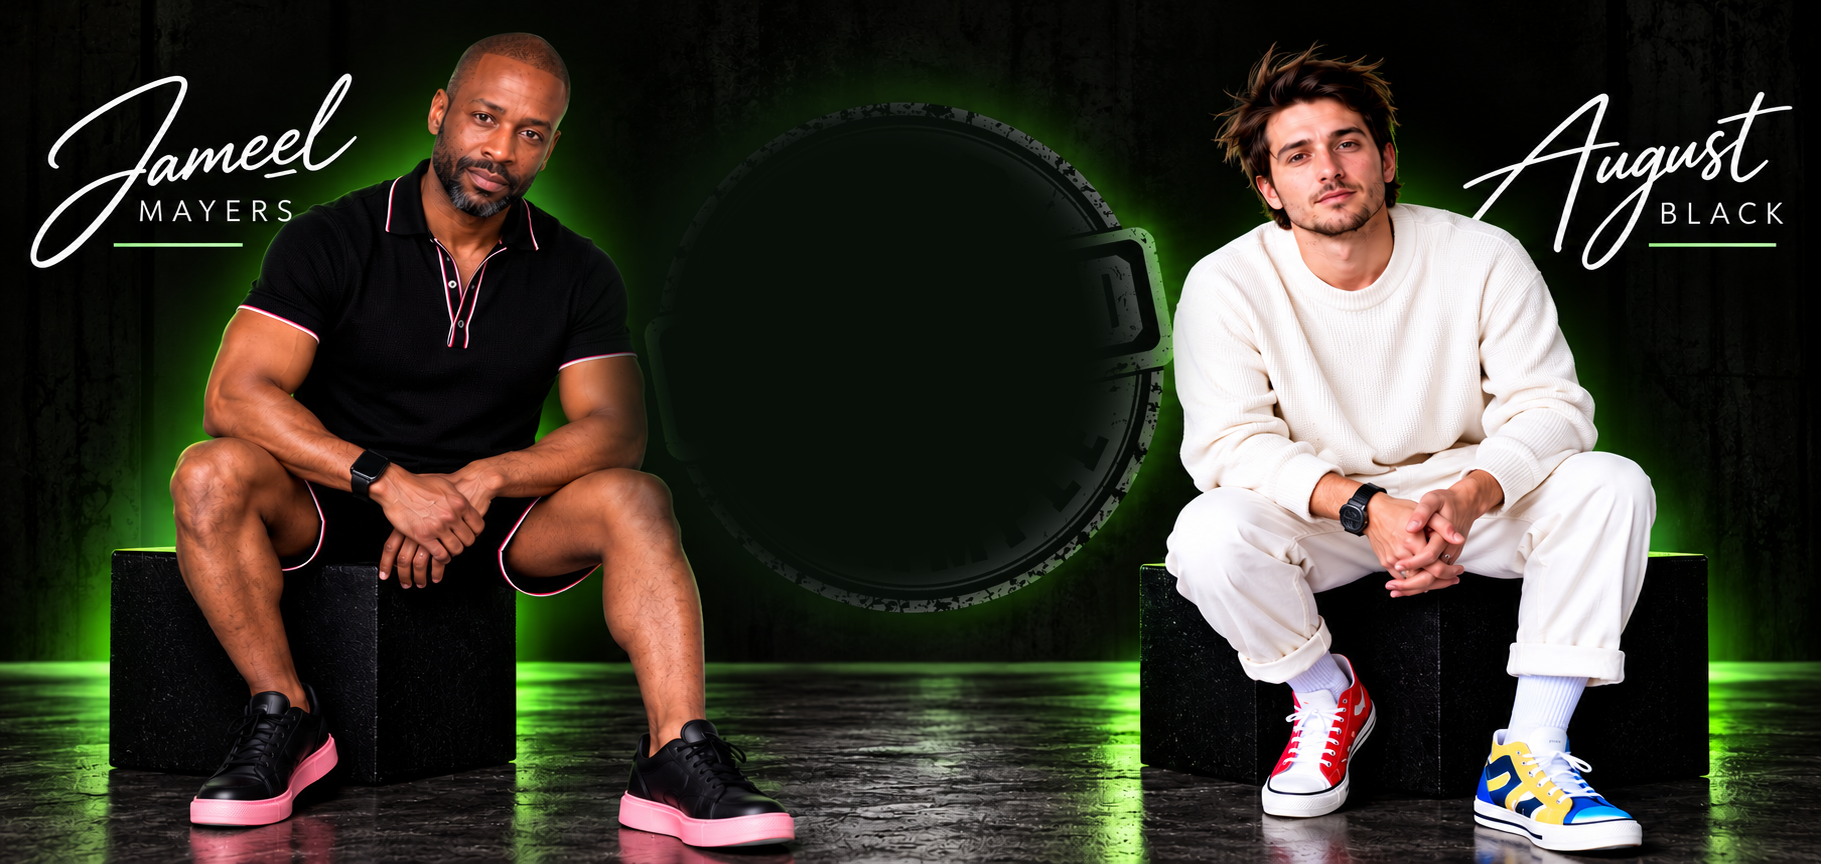
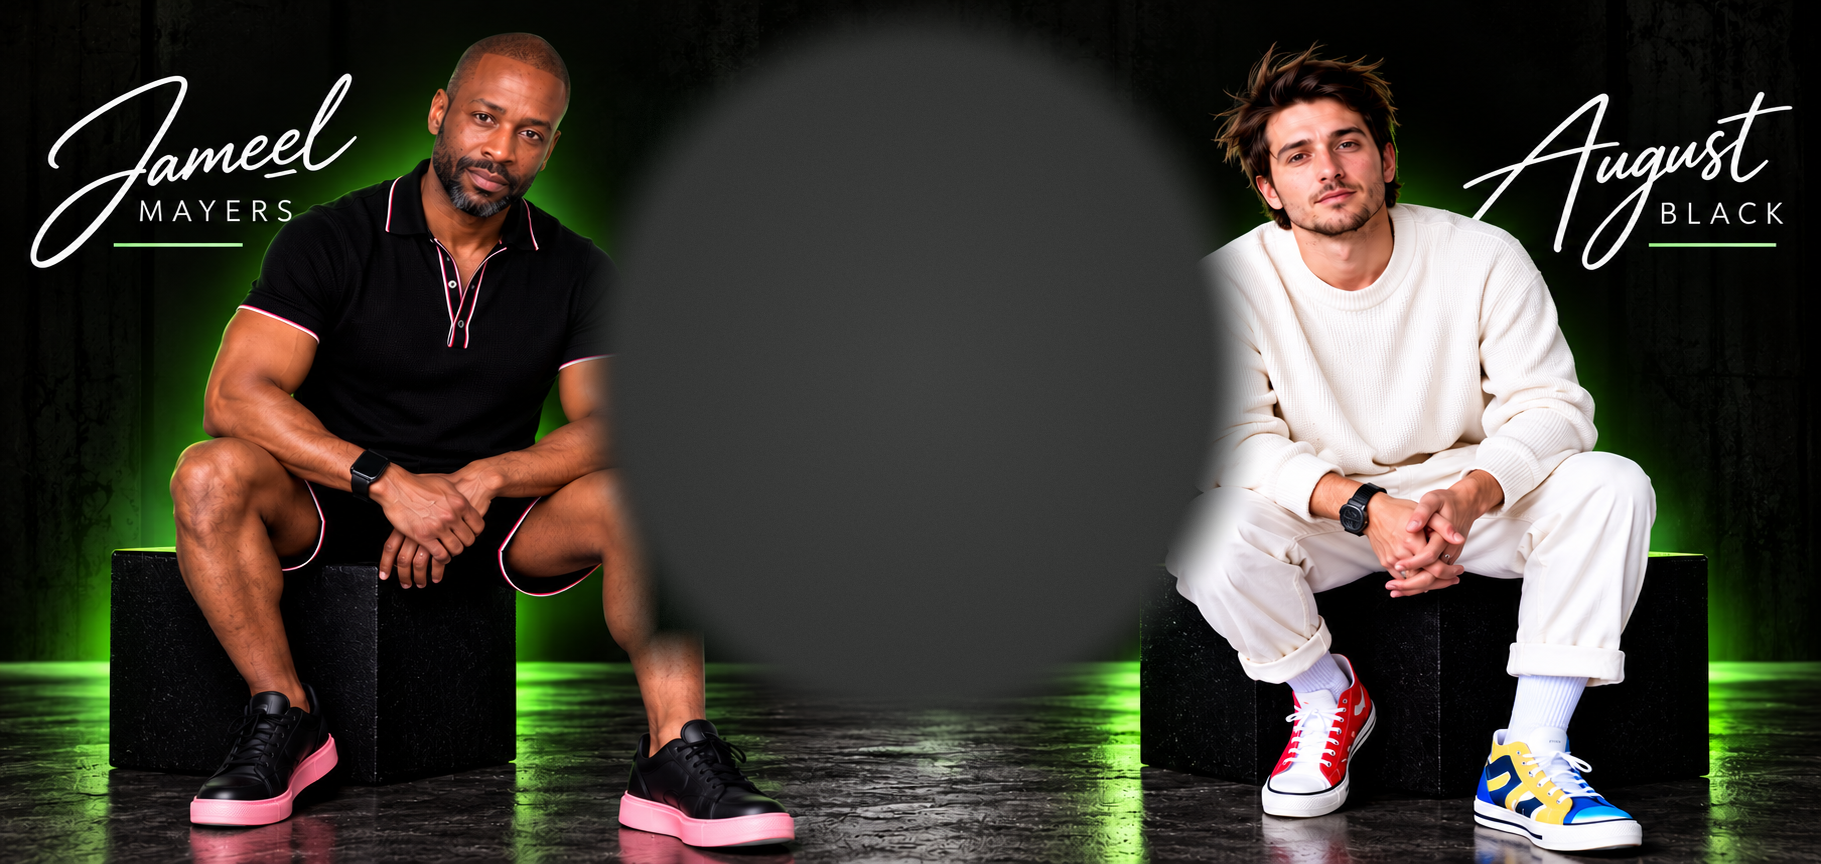
Add files via upload

Changed region(s): [[0.3075, 0.0312, 0.7073, 0.8438]]

diff --git a/index.html b/index.html
@@ -1,6 +1,6 @@
 <!doctype html><html lang="en"><head><meta charset="utf-8"><meta name="viewport" content="width=device-width,initial-scale=1"><meta name="theme-color" content="#080b09"><meta name="description" content="Certified Bad Example — Jameel Mayers and August Black react to real stories and questionable decisions."><title>Certified Bad Example | Podcast</title><link rel="stylesheet" href="styles.css"></head><body>
 <header class="site-header"><a href="index.html#home" class="brand" aria-label="Certified Bad Example home"><img src="assets/logo.png" alt="Certified Bad Example logo"></a><button class="menu-toggle" aria-label="Toggle navigation" aria-controls="nav" aria-expanded="false">☰</button><nav id="nav" aria-label="Main navigation"><a href="index.html#home">Home</a><a href="index.html#latest">Latest Mess</a><div class="nav-group"><button class="nav-drop" type="button" aria-expanded="false" aria-haspopup="true">Episodes <span aria-hidden="true">⌄</span></button><div class="nav-sub" id="season-nav"><a href="index.html#stories">Browse episodes</a><a href="index.html#stories" data-season-nav="1">Season One</a></div></div><div class="nav-group"><button class="nav-drop" type="button" aria-expanded="false" aria-haspopup="true">Hosts <span aria-hidden="true">⌄</span></button><div class="nav-sub"><a class="host-name" href="jameel.html"><span class="first-name">Jameel</span> <span class="last-name">Mayers</span></a><a class="host-name" href="august.html"><span class="first-name">August</span> <span class="last-name">Black</span></a></div></div><a href="support.html">Support</a></nav></header>
-<main id="home"><section class="hero reveal"><img class="hero-people" src="assets/hero-background.png" alt="Jameel Mayers and August Black"><img class="hero-spin-logo" src="assets/logo.png" alt="Certified Bad Example logo"><div class="hero-floor"></div></section>
+<main id="home"><section class="hero reveal"><img class="hero-people" src="assets/hero-background.png?v=12" alt="Jameel Mayers and August Black"><img class="hero-spin-logo" src="assets/logo.png" alt="Certified Bad Example logo"><div class="hero-floor"></div></section>
 <section class="home-intro reveal"><h2>BAD DECISIONS. BIG OPINIONS. <em>ZERO FILTER.</em></h2><p>The internet is full of people making questionable choices, and we’re here to talk about them. Join Jameel Mayers and August Black as they unpack outrageous viral stories, spectacular lapses in judgment, and the occasional example of humanity getting it right. It’s unscripted, unapologetic, and packed with laughs, perspective, and just enough common sense to make you wonder where everyone else’s went.</p><p><strong>Because sometimes the best lessons come from the worst examples.</strong></p></section><section class="social-band reveal"><p>FIND YOUR FAVORITE WAY TO FOLLOW THE MESS</p><div class="socials"><a data-link="youtube" aria-label="YouTube" target="_blank" rel="noopener"><svg class="brand-icon" aria-hidden="true" viewBox="0 0 24 24"><use href="assets/icons.svg#youtube"></use></svg><span>YouTube</span></a><a data-link="apple" aria-label="Apple Podcasts" target="_blank" rel="noopener"><svg class="brand-icon" aria-hidden="true" viewBox="0 0 24 24"><use href="assets/icons.svg#apple"></use></svg><span>Apple</span></a><a data-link="spotify" aria-label="Spotify" target="_blank" rel="noopener"><svg class="brand-icon" aria-hidden="true" viewBox="0 0 24 24"><use href="assets/icons.svg#spotify"></use></svg><span>Spotify</span></a><a data-link="instagram" aria-label="Instagram" target="_blank" rel="noopener"><svg class="brand-icon" aria-hidden="true" viewBox="0 0 24 24"><use href="assets/icons.svg#instagram"></use></svg><span>Instagram</span></a></div></section>
 <section class="section reveal" id="latest"><p class="eyebrow">PRESS PLAY</p><h1>THE LATEST <em>MESS.</em></h1><div class="video-shell" id="latest-video"><div class="video-placeholder"><strong>GETTING THE LATEST EPISODE…</strong><p><a data-link="youtube" target="_blank" rel="noopener" class="button">WATCH ON YOUTUBE ↗</a></p></div></div><div id="latest-actions" class="latest-actions"><a data-link="youtube" target="_blank" rel="noopener">↗ Pop Out to YouTube</a> <a href="https://www.youtube.com/@CertifiedBadExample_Podcast?sub_confirmation=1" target="_blank" rel="noopener">Subscribe on YouTube ↗</a></div></section>
 <section class="season reveal"><p class="eyebrow">NEXT UP</p><h2>SEASON TWO. <em>COMING DECEMBER 2026.</em></h2><p>More stories. More reactions. More questionable decisions.</p></section>

diff --git a/styles.css b/styles.css
@@ -46,3 +46,7 @@
 
 /* V10: ensure the seal is a single bounded animated layer, not a full-width hero image. */
 .hero{isolation:isolate;overflow:hidden}.hero > img.hero-people{width:100%;max-width:100%;height:auto}.hero > img.hero-spin-logo{width:34%;max-width:34%;min-width:0;object-fit:contain;aspect-ratio:1/1}@media(max-width:760px){.hero > img.hero-spin-logo{width:34%;max-width:34%}}
+
+/* V12: grey neutral backdrop and center-locked rotating seal. */
+.hero > img.hero-spin-logo{width:27%;max-width:27%;left:50%;top:43%;aspect-ratio:1/1;object-fit:contain;transform-origin:50% 50%;filter:drop-shadow(0 0 9px rgba(135,255,110,.28))}
+@media(max-width:760px){.hero > img.hero-spin-logo{width:27%;max-width:27%}}

diff --git a/README.md b/README.md
@@ -1,3 +1,9 @@
+# Certified Bad Example — V12
+
+Updated hero backdrop: softly blended neutral grey area centered between hosts, obscuring prior logo artifacts. The independent original seal remains the sole rotating logo, sized at 27% of hero width, centered at 50% horizontal and 43% vertical, rotating every 12 seconds. Background URL cache-busted.
+
+Deploy the ZIP contents at repository root; replace older files.
+
 V10 — Hero logo sizing and replacement fix
 
 The original logo is used once as an independently rotating layer over the logo-free hero-background.png. The static hero-banner.png is retained only as an unused source asset; it is NOT rendered on the homepage. CSS now explicitly overrides the general hero image width rule, preventing the seal from expanding to full-screen width.
@@ -23,3 +29,6 @@ No Resend key, sender domain, form recipient, or Turnstile setup is required for
 
 
 V09 changes: standalone rotating original CBE logo on homepage (background seal covered), Hollywood-style host typography and passing shimmer, compact one-line season announcement, responsive one-line host taglines, and cross-links between host profiles. Respect reduced-motion settings. No forms.
+
+
+V11: Replaced the baked-in stationary logo remnants in the hero background with a clean dark textured wall. The original independent logo layer continues rotating. Cache-busted hero background reference.
